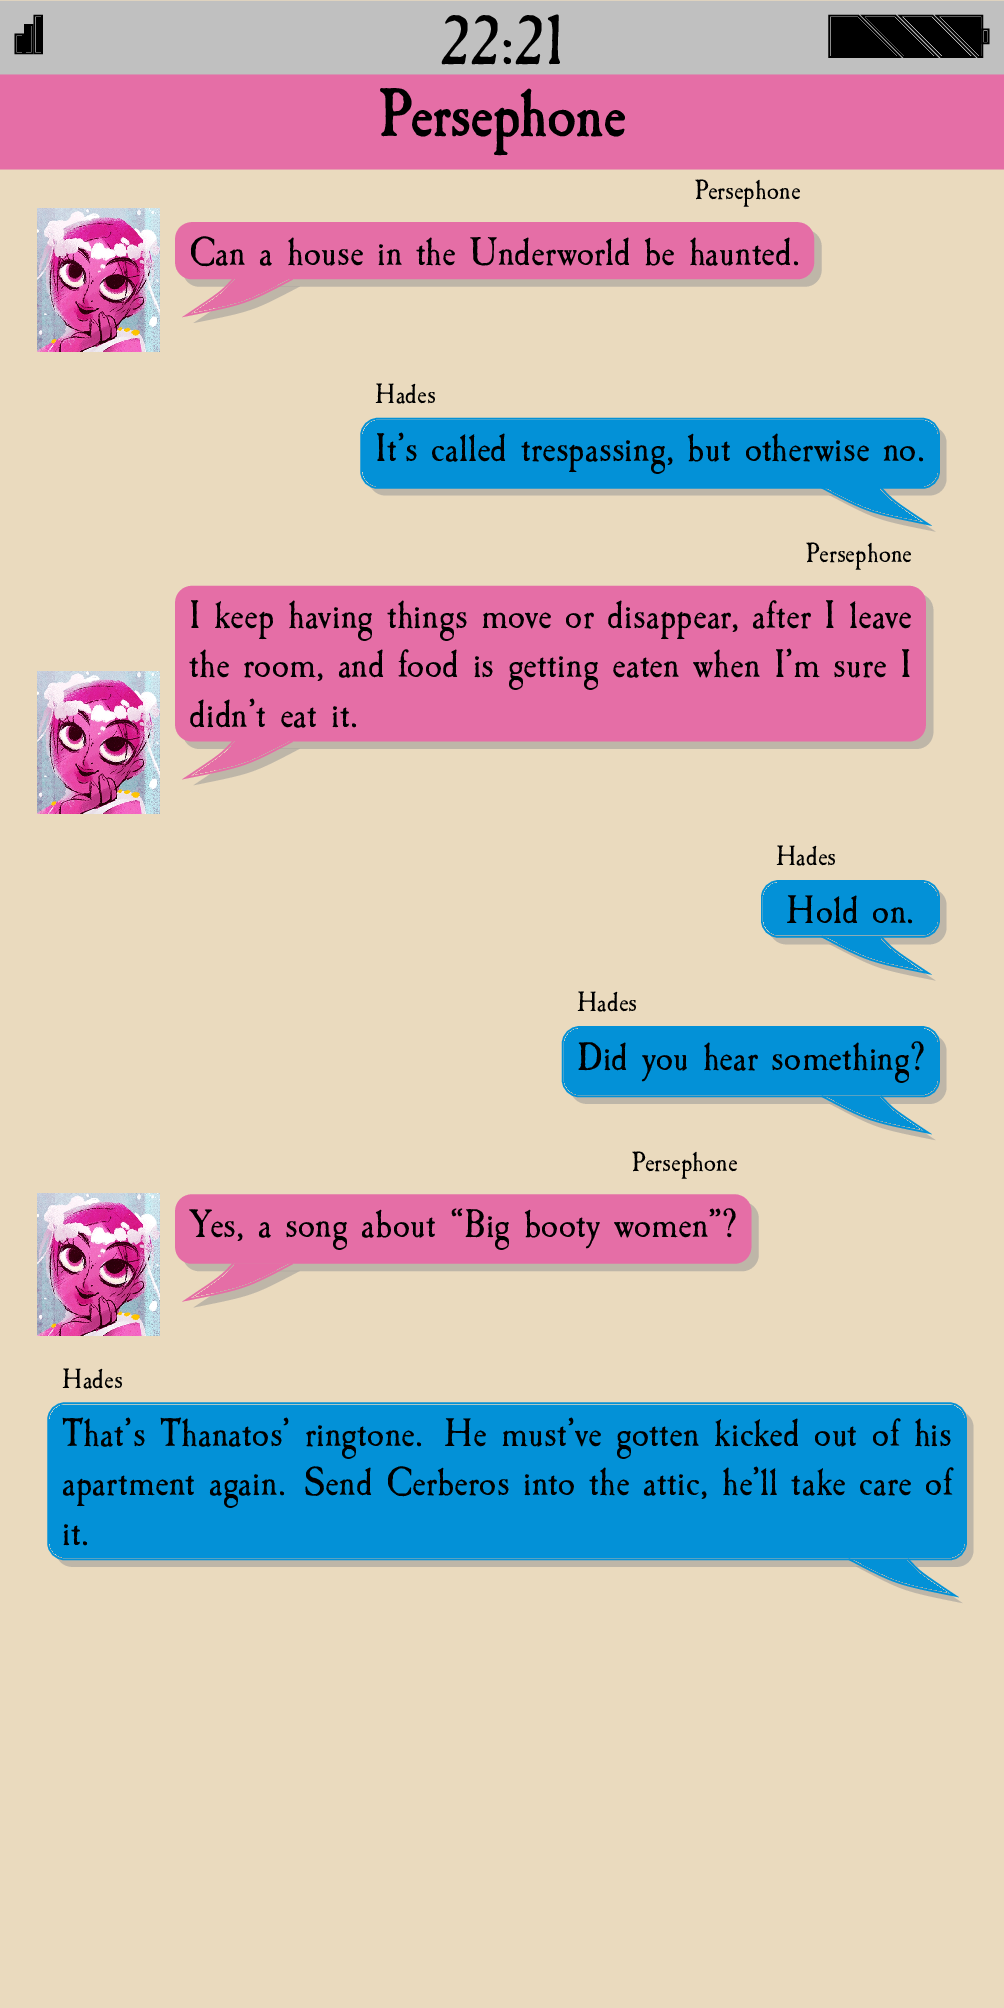
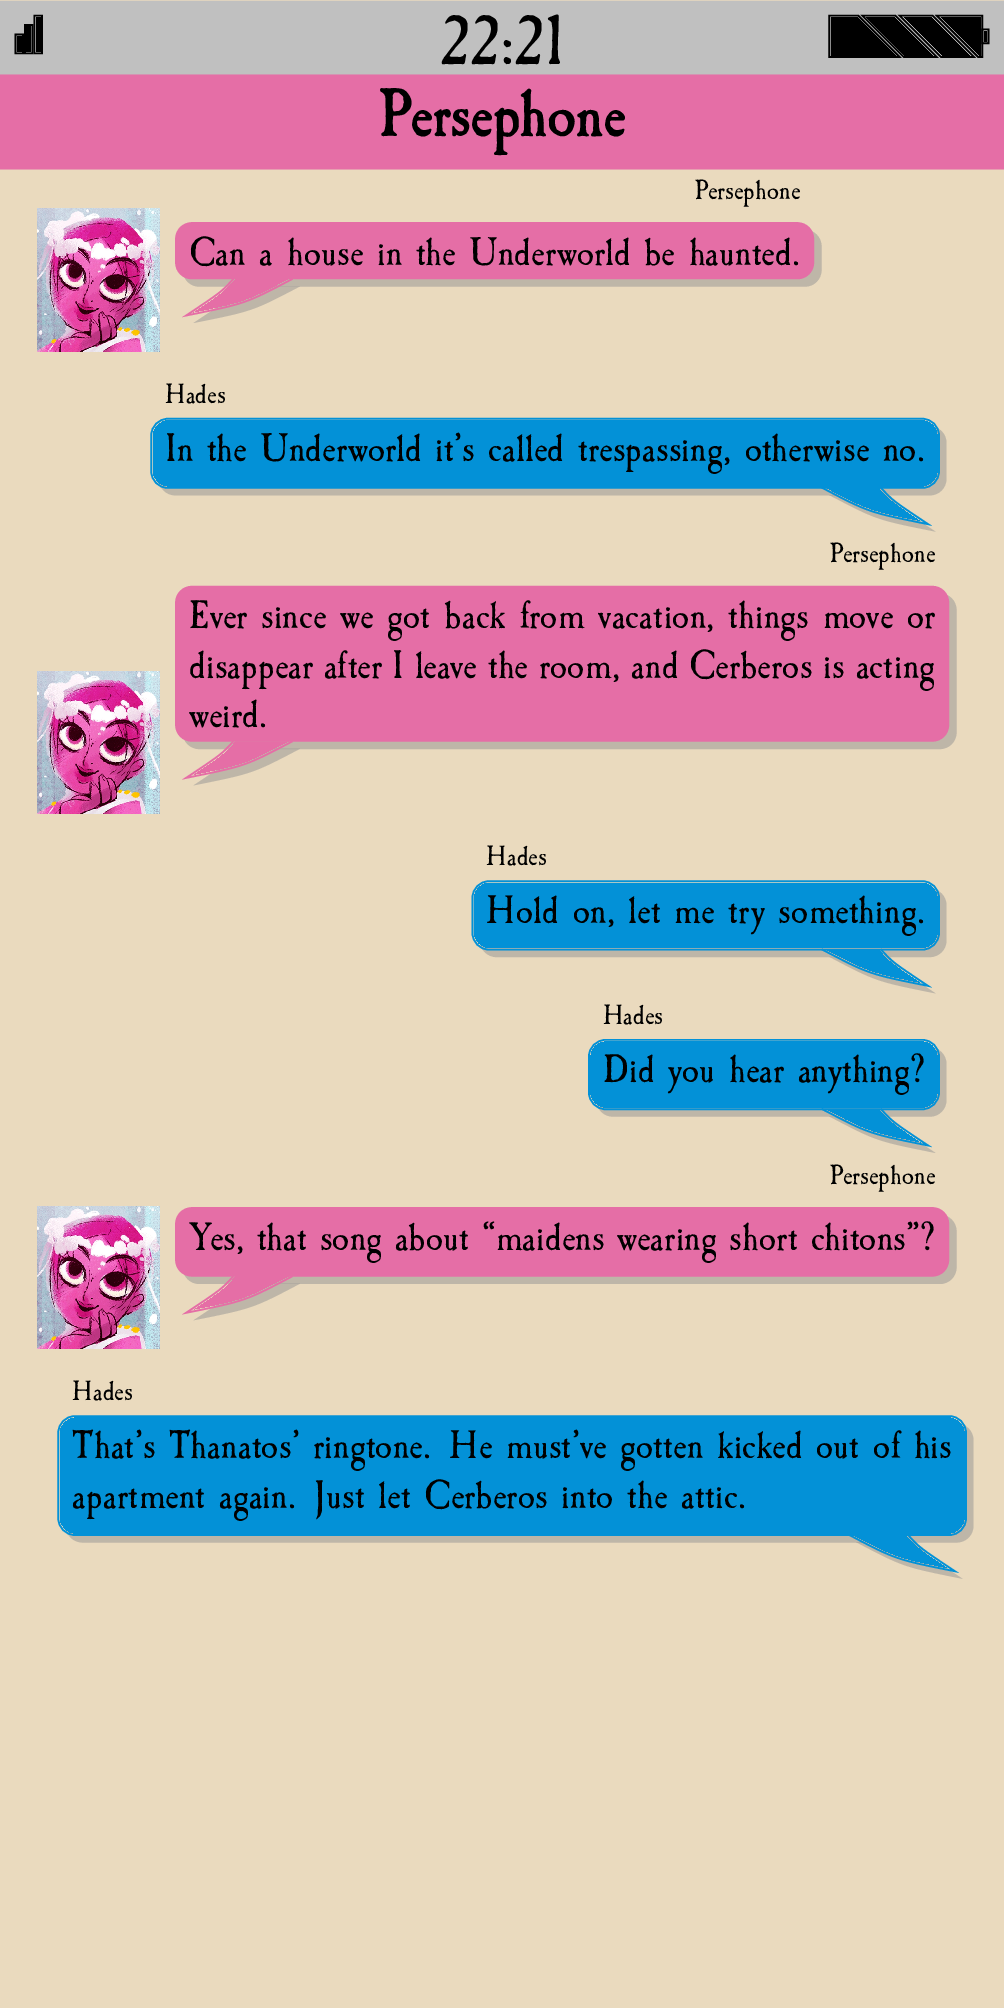
updated a ton of text-messages

Changed region(s): [[0.0309, 0.4014, 0.988, 0.8028], [0.1853, 0.247, 0.9572, 0.3705], [0.1235, 0.1853, 0.741, 0.247]]

diff --git a/_posts/2020/02/2020-02-10-Passionate_marriages_still_do_married_people_things.md b/_posts/2020/02/2020-02-10-Passionate_marriages_still_do_married_people_things.md
@@ -1,0 +1,14 @@
+---
+layout: post
+title: "Even people in passionate marriages want fresh fruit."
+tags: [Hades, Persephone]
+categories: [text-messages]
+summary: Loving a literal goddess is great, but have you ever have fresh figs?
+author: Bobo Glaukon
+date: 2020-02-10
+published: false
+---
+
+![Hades wants figs from the mortal realm](/assets/img/figs.png)
+
+In Italy, "to make the fig" refers to a crude gesture with a meaning like the middle finger in many other places. You make it by sticking your thumb between your index and middle fingers, while otherwise making a fist. Don't do it in Italy. You have been warned.

diff --git a/_posts/2020/02/2020-02-03-Persephone_has_a_new_phone.md b/_posts/2020/02/2020-02-03-Persephone_has_a_new_phone.md
@@ -1,0 +1,14 @@
+---
+layout: post
+title: "Persephone's unfamiliarity with her new phone betrays her."
+tags: [Persephone, Artemis]
+categories: [text-message]
+summary: Persephone doesn't quite have the hang of her new phones assistant.
+author: Bobo Glaukon
+date: 2020-02-03
+published: false
+---
+
+![Persephone reveals things to Aphrodite she would rather keep secret.](/assets/img/pissed.png)
+
+This is a bit of a callback to [when Hades did not believe Persephone was picking him up](/_posts/2019/12/2019-12-18-Persephone_using_pickup_lines_from_a_magazine_on_Hades_pt_7.md).

diff --git a/_posts/2020/02/2020-02-06-Hades_is_into_it.md b/_posts/2020/02/2020-02-06-Hades_is_into_it.md
@@ -1,0 +1,15 @@
+---
+layout: post
+title: "Hades is into it."
+tags: [Hades, Persephone]
+categories: [text-messages]
+summary: Hades has&hellip;unusual tastes, and Persephone suits him just fine.
+author: Bobo Glaukon
+date: 2020-02-06
+published: false
+---
+
+![Persephone almost chokes out Hades when they kiss.](/assets/img/tanais.png)
+
+Tanais is one of the furthest cities of the ancient Greek world, and therefore known but unlikely to come up in passionate embrace.
+

diff --git a/_posts/2020/02/2020-02-07-Hera_has_an_idea.md b/_posts/2020/02/2020-02-07-Hera_has_an_idea.md
@@ -1,0 +1,16 @@
+---
+layout: post
+title: "Hera has a cunning plan."
+tags: [Hera, Hades]
+categories: [text-messages]
+summary: Hera thinks that improving Hades image with the mortals might be as easy as better PR.
+author: Bobo Glaukon
+date: 2020-02-07
+published: false
+---
+
+![Hera suggests the "Congratulations, You're Dead" sign.](/assets/img/congratulations.png)
+
+I thought one of the funniest bits of background are in all LO deserved a backstory itself.
+
+

diff --git a/_posts/2020/02/2020-02-04-Hera_tries_to_capitalize_on_Persephones_powers.md b/_posts/2020/02/2020-02-04-Hera_tries_to_capitalize_on_Persephones_powers.md
@@ -1,0 +1,14 @@
+---
+layout: post
+title: "Hera makes and egregious miscalculation"
+tags: [Hades, Hera]
+categories: [text-messages]
+summary: Hera miscalculates when she tries to capitalize on Persephone's attraction to Hades.
+author: Bobo Glaukon
+date: 2020-02-04
+published: false
+---
+
+![Hera locks Hades and Persephone in the bathroom.](/assets/img/locked.png)
+
+You should think of this happening while Hades and Persephone are still "just friends."

diff --git a/_posts/2020/02/2020-02-11-Something_funny_is_going_on_at_home.md b/_posts/2020/02/2020-02-11-Something_funny_is_going_on_at_home.md
@@ -1,0 +1,14 @@
+---
+layout: post
+title: "Persephone thinks the townhouse might be haunted"
+tags: [Persephone, Hades]
+categories: [text-messages]
+summary: There are strange goings on at the townhouse.
+author: Bobo Glaukon
+date: 2020-02-11
+published: false
+---
+
+![Hades calls Thanatos' phone, and discovers Thanatos is hiding in the attic.](/assets/img/attic.png) 
+
+Why Thanatos would think living in his boss' house is a good idea, I'll never know.

diff --git a/_posts/2020/02/2020-02-05-Persephone_doesnt_approve_of_Artemis_hobbies.md b/_posts/2020/02/2020-02-05-Persephone_doesnt_approve_of_Artemis_hobbies.md
@@ -1,0 +1,13 @@
+---
+layout: post
+title: "Persephone is appauled at what Artemis does to animals"
+tags: [Persephone, Hades]
+categories: [text-messages]
+summary: Persephone really wants to protect animals from Artemis.
+author: Bobo Glaukon
+date: 2020-02-05
+published: false
+---
+
+![Persephone didn't think the implications of bringing all the animals to the underworld.](/assets/img/traffic.png)
+
